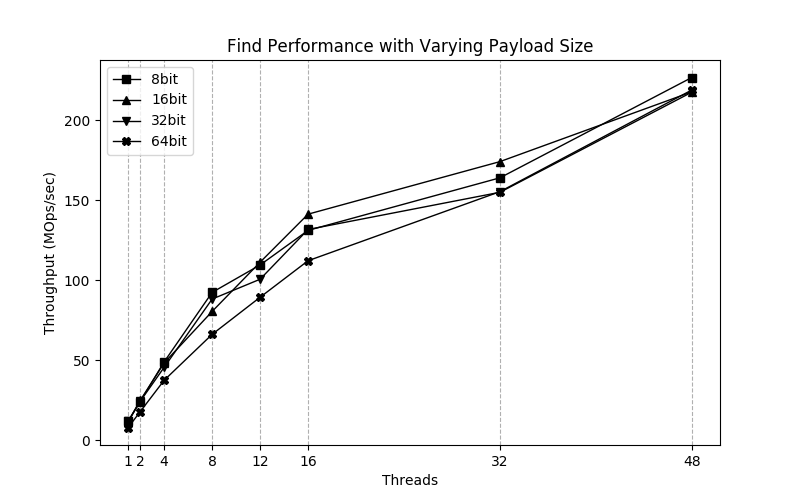
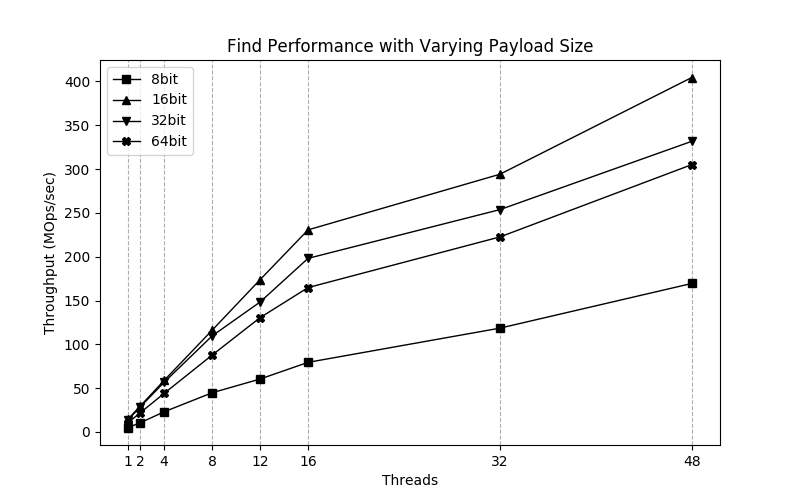
add figs for 32/64bit key sizes

diff --git a/hello-rust/src/mainBAK.rs b/hello-rust/src/mainBAK.rs
@@ -12,12 +12,12 @@ use std::collections::HashMap;
 
 mod hash_table;
 
-const HT_SIZE: u32 = 67108864; //must be power of 2
-const NUM_OPS: i32 = 25000000;
-// const HT_SIZE: u32 = 16384; //must be power of 2
-// const NUM_OPS: i32 = 10000;
-type KeySize = u64;
-type ValSize = u32;
+//const HT_SIZE: u32 = 67108864; //must be power of 2
+//const NUM_OPS: i32 = 25000000;
+const HT_SIZE: u32 = 16384; //must be power of 2
+const NUM_OPS: i32 = 10000;
+type KeySize = u32;
+type ValSize = u64;
 
 
 fn basic_hm(inserts: Vec<(KeySize,ValSize)>) -> (f64, f64){
@@ -60,7 +60,7 @@ fn basic_hm(inserts: Vec<(KeySize,ValSize)>) -> (f64, f64){
 //@param Hash table
 //@param Number of inserts for each thread
 //@param Number of threads
-fn insert_and_find_32(ht: hash_table::HashTable, stored_keys: Vec<(KeySize, ValSize)>, total_adds: i32, num_threads: i32) -> (f64, f64) {
+fn insert_and_find_32(ht: hash_table::HashTable, total_adds: i32, num_threads: i32) -> (f64, f64) {
 
     let ht = Arc::new(ht);
     let mut handles = vec![];
@@ -71,7 +71,6 @@ fn insert_and_find_32(ht: hash_table::HashTable, stored_keys: Vec<(KeySize, ValS
     for i in 0..num_threads {
 
         let ht = Arc::clone(&ht);
-	let mut s = stored_keys.clone();
 
         let handle = thread::spawn(move || {
 
@@ -87,7 +86,7 @@ fn insert_and_find_32(ht: hash_table::HashTable, stored_keys: Vec<(KeySize, ValS
                     }
                     None => println!("Problem popping a stored key"),
                 }
-                // ht.set_item(key, value);
+                ht.set_item(key, value);
 
             }
         });
@@ -161,10 +160,9 @@ fn insert_and_find_32(ht: hash_table::HashTable, stored_keys: Vec<(KeySize, ValS
     (in_thr, get_thr)
 }
 
-fn run_benchmark(ht_size: u32, inserts: Vec<(KeySize, ValSize)>, num_inserts: i32, num_threads: i32) -> (f64, f64) {
-
+fn run_benchmark(ht_size: u32, num_inserts: i32, num_threads: i32) -> (f64, f64) {
     let ht = hash_table::HashTable::new(ht_size);
-    insert_and_find_32(ht, inserts, num_inserts, num_threads)
+    insert_and_find_32(ht, num_inserts, num_threads)
 }
 
 fn print_speedup(thrputs: Vec<(f64, f64)>) {
@@ -198,14 +196,14 @@ fn main() {
     throughputs.push(res);
 
     println!("Benchmarking the concurrent implementation...");
-    throughputs.push(run_benchmark(HT_SIZE, inserts.clone(), NUM_OPS, 1));
-    throughputs.push(run_benchmark(HT_SIZE, inserts.clone(), NUM_OPS, 2));
-    throughputs.push(run_benchmark(HT_SIZE, inserts.clone(), NUM_OPS, 4));
-    throughputs.push(run_benchmark(HT_SIZE, inserts.clone(), NUM_OPS, 8));
-    throughputs.push(run_benchmark(HT_SIZE, inserts.clone(), NUM_OPS, 12));
-    throughputs.push(run_benchmark(HT_SIZE, inserts.clone(), NUM_OPS, 16));
-    throughputs.push(run_benchmark(HT_SIZE, inserts.clone(), NUM_OPS, 32));
-    throughputs.push(run_benchmark(HT_SIZE, inserts.clone(), NUM_OPS, 48));
+    throughputs.push(run_benchmark(HT_SIZE, NUM_OPS, 1));
+    throughputs.push(run_benchmark(HT_SIZE, NUM_OPS, 2));
+    throughputs.push(run_benchmark(HT_SIZE, NUM_OPS, 4));
+    throughputs.push(run_benchmark(HT_SIZE, NUM_OPS, 8));
+    throughputs.push(run_benchmark(HT_SIZE, NUM_OPS, 12));
+    throughputs.push(run_benchmark(HT_SIZE, NUM_OPS, 16));
+    throughputs.push(run_benchmark(HT_SIZE, NUM_OPS, 32));
+    throughputs.push(run_benchmark(HT_SIZE, NUM_OPS, 48));
     print_speedup(throughputs.clone());
 
     //Write to csv file

diff --git a/charts/compare_rustcpp.py b/charts/compare_rustcpp.py
@@ -1,0 +1,71 @@
+import matplotlib.pyplot as plt
+import numpy as np
+
+def add_value_labels(ax, spacing=5):
+    """Add labels to the end of each bar in a bar chart.
+
+    Arguments:
+        ax (matplotlib.axes.Axes): The matplotlib object containing the axes
+            of the plot to annotate.
+        spacing (int): The distance between the labels and the bars.
+    """
+
+    # For each bar: Place a label
+    for rect in ax.patches:
+        # Get X and Y placement of label from rect.
+        y_value = rect.get_height()
+        x_value = rect.get_x() + rect.get_width() / 2
+
+        # Number of points between bar and label. Change to your liking.
+        space = spacing
+        # Vertical alignment for positive values
+        va = 'bottom'
+
+        # If value of bar is negative: Place label below bar
+        if y_value < 0:
+            # Invert space to place label below
+            space *= -1
+            # Vertically align label at top
+            va = 'top'
+
+        # Use Y value as label and format number with one decimal place
+        label = "{:.1f}".format(y_value)
+
+        # Create annotation
+        ax.annotate(
+            label,                      # Use `label` as label
+            (x_value, y_value),         # Place label at end of the bar
+            xytext=(0, space),          # Vertically shift label by `space`
+            textcoords="offset points", # Interpret `xytext` as offset in points
+            ha='center',                # Horizontally center label
+            va=va)                      # Vertically align label differently for
+
+n_groups = 2
+rust_folk = (88.55, 331.707)
+cpp_folk = (290.0, 435.0)
+
+# create plot
+
+fig, ax = plt.subplots()
+index = np.arange(n_groups)
+bar_width = 0.35
+opacity = 0.8
+
+rects1 = plt.bar(index, rust_folk, bar_width,
+                 label='Rust', color='black')
+
+rects2 = plt.bar(index + bar_width, cpp_folk, bar_width,
+                 label='C++ (est.)', color='gray')
+
+# for i, v in enumerate(rust_folk):
+#     ax.text(v + 0.25, i + 3, str(v))
+
+#plt.xlabel('Person')
+plt.ylabel('Throughput (MOps/sec)')
+plt.title('Insert and Find Comparison between Rust and C++')
+plt.xticks(index + bar_width/2, ('Insert', 'Find'))
+plt.legend()
+add_value_labels(ax)
+
+plt.tight_layout()
+plt.savefig("figs/compare.png")

diff --git a/charts/keysizes.py b/charts/keysizes.py
@@ -1,0 +1,67 @@
+import csv
+import matplotlib.pyplot as plt
+import numpy as np
+
+xs = [1, 2, 4, 8, 12, 16, 32, 48]
+charts = ["32bit", "64bit"]
+markers = ["s", "^"]
+
+data = {}
+for size in charts:
+    data[size] = ([], [])
+
+for size in charts:
+    with open("./data/" + size + "-final.csv", mode="r") as csv_file:
+        csv_reader = csv.reader(csv_file)
+        line_count = 0
+        for row in csv_reader:
+            for token in row:
+                if line_count == 0:
+                    data[size][0].append(float(token))
+                else:
+                    data[size][1].append(float(token))
+            line_count += 1
+    data[size] = (data[size][0][1:], data[size][1][1:])
+
+
+def insert():
+
+
+    plt.figure(figsize=(8, 5))
+
+    for idx, size in enumerate(charts):
+        plt.plot(xs, data[size][0], color='black', marker=markers[idx], linewidth=1.0)
+
+    plt.xlabel("Threads")
+    plt.ylabel("Throughput (MOps/sec)")
+    plt.title("Insertion Performance with Varying Key Size")
+    plt.legend(charts)
+    plt.xticks(xs, xs)
+    plt.grid(axis='x', linestyle='--')
+    plt.savefig("figs/key_insert_thru.png")
+
+def find():
+
+    plt.figure(figsize=(8, 5))
+
+    # ys = []
+    # if do_speedup:
+    #     plt.ylabel("Absolute Speedup\n(vs. built-in Rust HashMap)")
+    #     for y_idx in range(1, len(find_ys)):
+    #         ys.append(find_ys[y_idx] / find_ys[0])
+    #     print(ys)
+    # else:
+    #     plt.ylabel("Throughput (MOps/sec)")
+    #     ys = find_ys[1:]
+    for idx, size in enumerate(charts):
+        plt.plot(xs, data[size][1], color='black', marker=markers[idx], linewidth=1.0)
+    plt.xlabel("Threads")
+    plt.ylabel("Throughput (MOps/sec)")
+    plt.title("Find Performance with Varying Key Size")
+    plt.legend(charts)
+    plt.xticks(xs, xs)
+    plt.grid(axis='x', linestyle='--')
+    plt.savefig("figs/key_find_thru.png")
+
+insert()
+find()

diff --git a/hello-rust/src/hash_table.rs b/hello-rust/src/hash_table.rs
@@ -1,12 +1,12 @@
 use std::sync::atomic::{AtomicU32, AtomicU64};
 use std::sync::atomic::Ordering;
 use std::convert::TryInto;
+use murmurhash64::murmur_hash64a;
 
-
-type UKeyAtom = AtomicU32;
-type UValAtom = AtomicU64;
-type UKey = u32;
-type UVal = u64;
+type UKeyAtom = AtomicU64;
+type UValAtom = AtomicU32;
+type UKey = u64;
+type UVal = u32;
 
 
 //Rust port of Jeff Preshing's simple lock-free hash table
@@ -85,10 +85,11 @@ impl HashTable {
 	assert!(key != 0);
 	assert!(value != 0);
 
-	//let mut idx = HashTable::integer_hash(key);
-	//let mut idx = seahash::hash(key);
-	let mut idx = HashTable::integer_hash2(key);
-	// let mut idx = spooky::Hash128::hash(key);
+	//let mut idx = HashTable::integer_hash2(key);
+
+	let seed = 2915580697;
+	let mut idx = murmur_hash64a(key.to_string().as_bytes(), seed);
+
 	loop {
 
 	    //scale to size of array
@@ -114,7 +115,11 @@ impl HashTable {
     pub fn get_item(&self, key:UKey) -> UVal {
 
 	assert!(key != 0);
-	let mut idx = HashTable::integer_hash2(key);
+
+
+	let seed = 2915580697;
+	let mut idx = murmur_hash64a(key.to_string().as_bytes(), seed);
+	//let mut idx = HashTable::integer_hash2(key);
 
 	loop {
 	    idx &= (self.m_array_size - 1) as UKey;

diff --git a/charts/makecharts.py b/charts/makecharts.py
@@ -2,11 +2,11 @@ import csv
 import matplotlib.pyplot as plt
 import numpy as np
 
-xs = [2, 4, 8, 12, 16, 32, 48]
+xs = [1, 2, 4, 8, 12, 16, 32, 48]
 insert_ys = []
 find_ys = []
 
-filename = "dynamic.csv"
+filename = "testout2.csv"
 
 with open("../hello-rust/" + filename, mode="r") as csv_file:
     csv_reader = csv.reader(csv_file)

diff --git a/charts/data/aggdata.py b/charts/data/aggdata.py
@@ -2,7 +2,8 @@
 
 import csv
 
-sizes = ["8bit", "16bit", "32bit", "64bit"]
+#sizes = ["8bit", "16bit", "32bit", "64bit"]
+sizes = ["32bit", "64bit"]
 
 for size in sizes:
 
